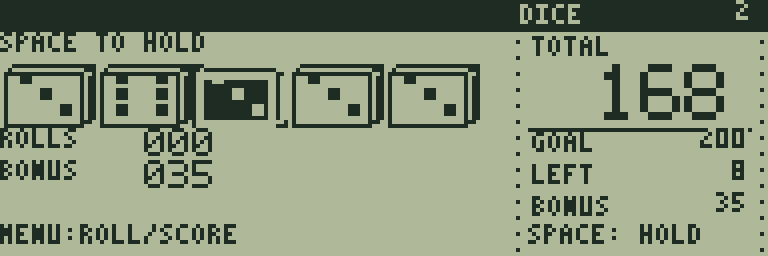
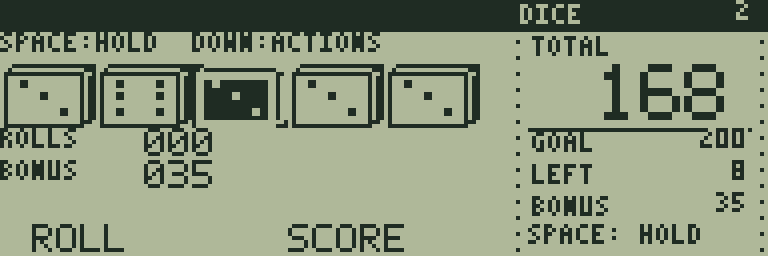
Improve DICE HOLD visual clarity

diff --git a/games/dice-hold/generate.py b/games/dice-hold/generate.py
@@ -8,7 +8,8 @@ pips=[[],[(11,7)],[(6,3),(16,11)],[(6,3),(11,7),(16,11)],[(6,3),(16,3),(6,11),(1
 for held in range(2):
  for value in range(1,7):
   b=Bitmap(24,16);b.rect(1,2,20,14);b.line(1,2,3,0);b.line(3,0,23,0);b.line(20,2,23,0);b.line(23,0,23,13);b.line(20,15,23,13);b.line(22,3,22,13)
-  for x,y in pips[value]:b.rect(x-1,y-1,3,3,1,True)
+  # Two-pixel pips leave a clear row below the upper rim, even on sixes.
+  for x,y in pips[value]:b.rect(x-1,max(4,y),2,2,1,True)
   if held:b.rect(2,3,18,12)
   sprites.append(b)
 cells=[255]*112;sub=[0]*112

diff --git a/games/dice-hold/README.md b/games/dice-hold/README.md
@@ -10,9 +10,9 @@
 
 ## 遊び方
 
-各手番の最初に5個のダイスを振ります。左右キーでダイスを選び、SPACEで保持を切り替えます。保持したダイスは二重の枠になります。RETURNメニューのROLLで保持していないダイスを振り直します。ROLLSは残りの振り直し回数で、最初の出目を含めて各手番3回までです。
+各手番の最初に5個のダイスを振ります。左右キーでダイスを選び、SPACEで保持を切り替えます。保持したダイスは二重の枠になります。下キーで画面下のボタンへ移り、左右で **ROLL / SCORE** を選び、SPACEで実行します。ROLLは保持していないダイスの振り直しです。上キーでダイスの選択へ戻ります。ROLLSは残りの振り直し回数で、最初の出目を含めて各手番3回までです。
 
-RETURNメニューのSCOREで得点欄を選びます。方向キーで欄を移動し、表示された点数をSPACEで確定します。Xの欄は使用済みです。各欄は1回だけ使え、0点で埋めることもできます。得点欄の選択中はRETURNでダイスの画面へ戻れます。
+画面下の **SCORE** で得点欄を開きます。方向キーで欄を移動し、表示された点数をSPACEで確定します。Xの欄は使用済みです。各欄は1回だけ使え、0点で埋めることもできます。得点欄の選択中はRETURNでダイスの画面へ戻れます。
 
 ONES〜SIXESは対応する数字の合計です。3-KINDと4-KINDは同じ目が3個以上・4個以上なら全ダイスの合計点、HOUSEは3個と2個の組で25点、SMALLは4連続の数字で30点、LARGEは5連続で40点、5-KINDは同じ目5個で50点、CHANCEは条件なしで全ダイスの合計点です。ONES〜SIXESの合計が63点以上になるとBONUSが35点加算されます。
 
